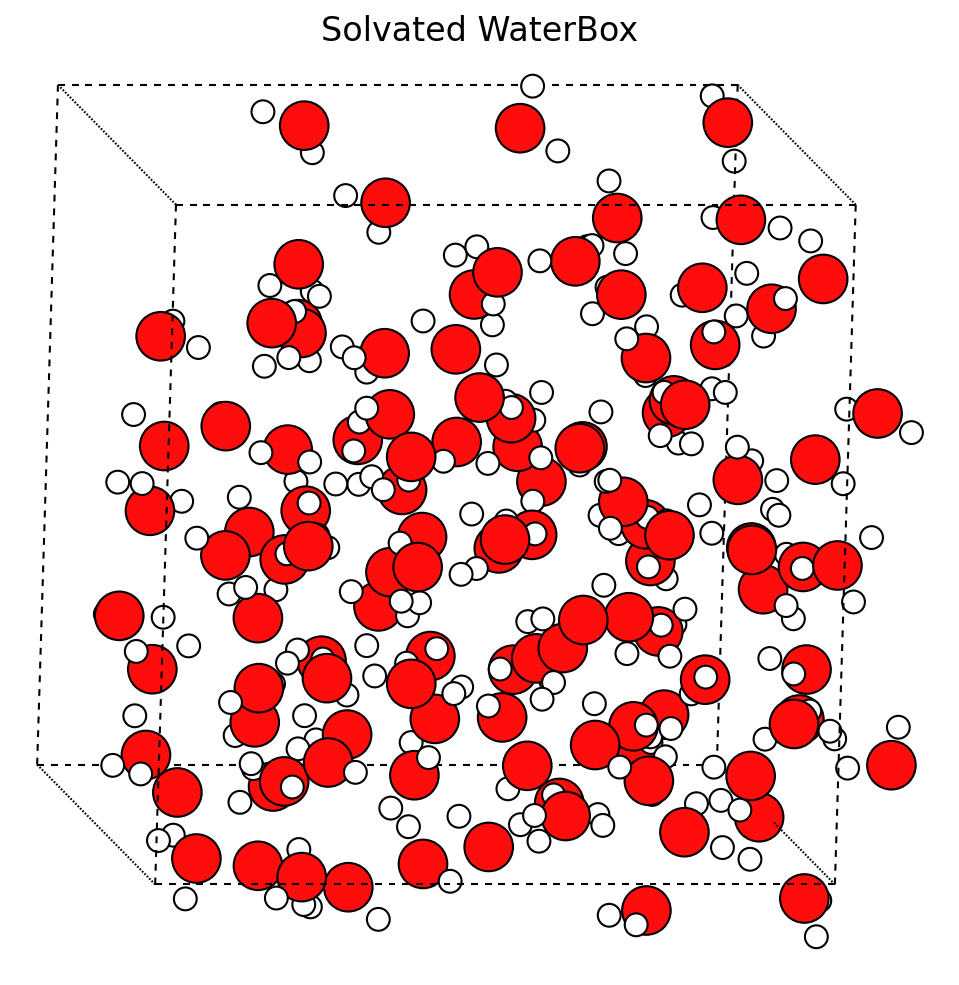
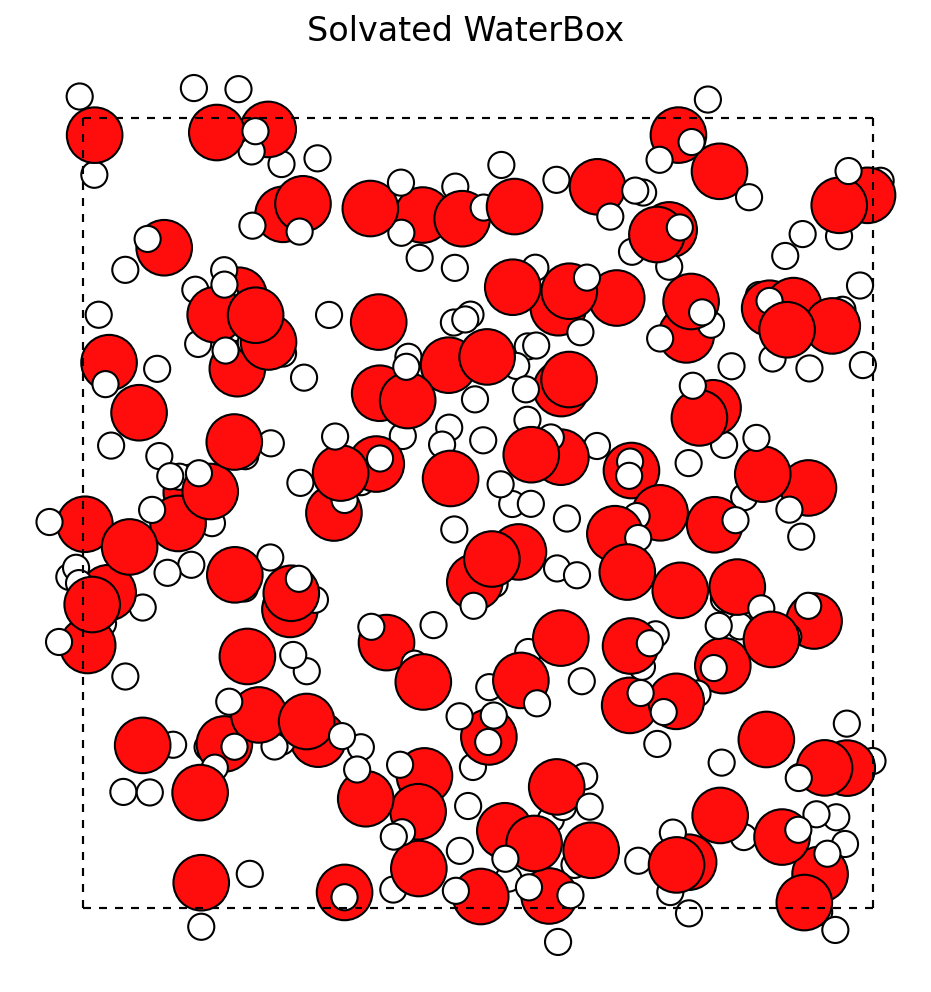
Update documentation images to use side-view rotation

diff --git a/generate_examples.py b/generate_examples.py
@@ -128,12 +128,15 @@ def solvate_system(name, atoms, density=1.0):
             # Create a nice plot
             fig, ax = plt.subplots(figsize=(8, 8))
             
-            # Rotate for better view
-            result.rotate(10, 'x')
-            result.rotate(10, 'y')
+            # Rotate for better view (side view)
+            # result.rotate(90, 'x') # Actually plot_atoms rotation is easier to control
             
             # Plot
-            plot_atoms(result, ax, radii=0.8, rotation=('10x,10y,0z'))
+            # 90x rotates so z-axis is vertical? No, 90x rotates around x. 
+            # If slab is in XY plane (Z normal), we want to see it from the side (along X or Y).
+            # Default view is Z coming out of screen (XY plane).
+            # -90x rotates Z to Y (up). So we see X-Z plane.
+            plot_atoms(result, ax, radii=0.8, rotation=('-90x,0y,0z'))
             ax.set_axis_off()
             ax.set_title(f"Solvated {name}", fontsize=16)
             
